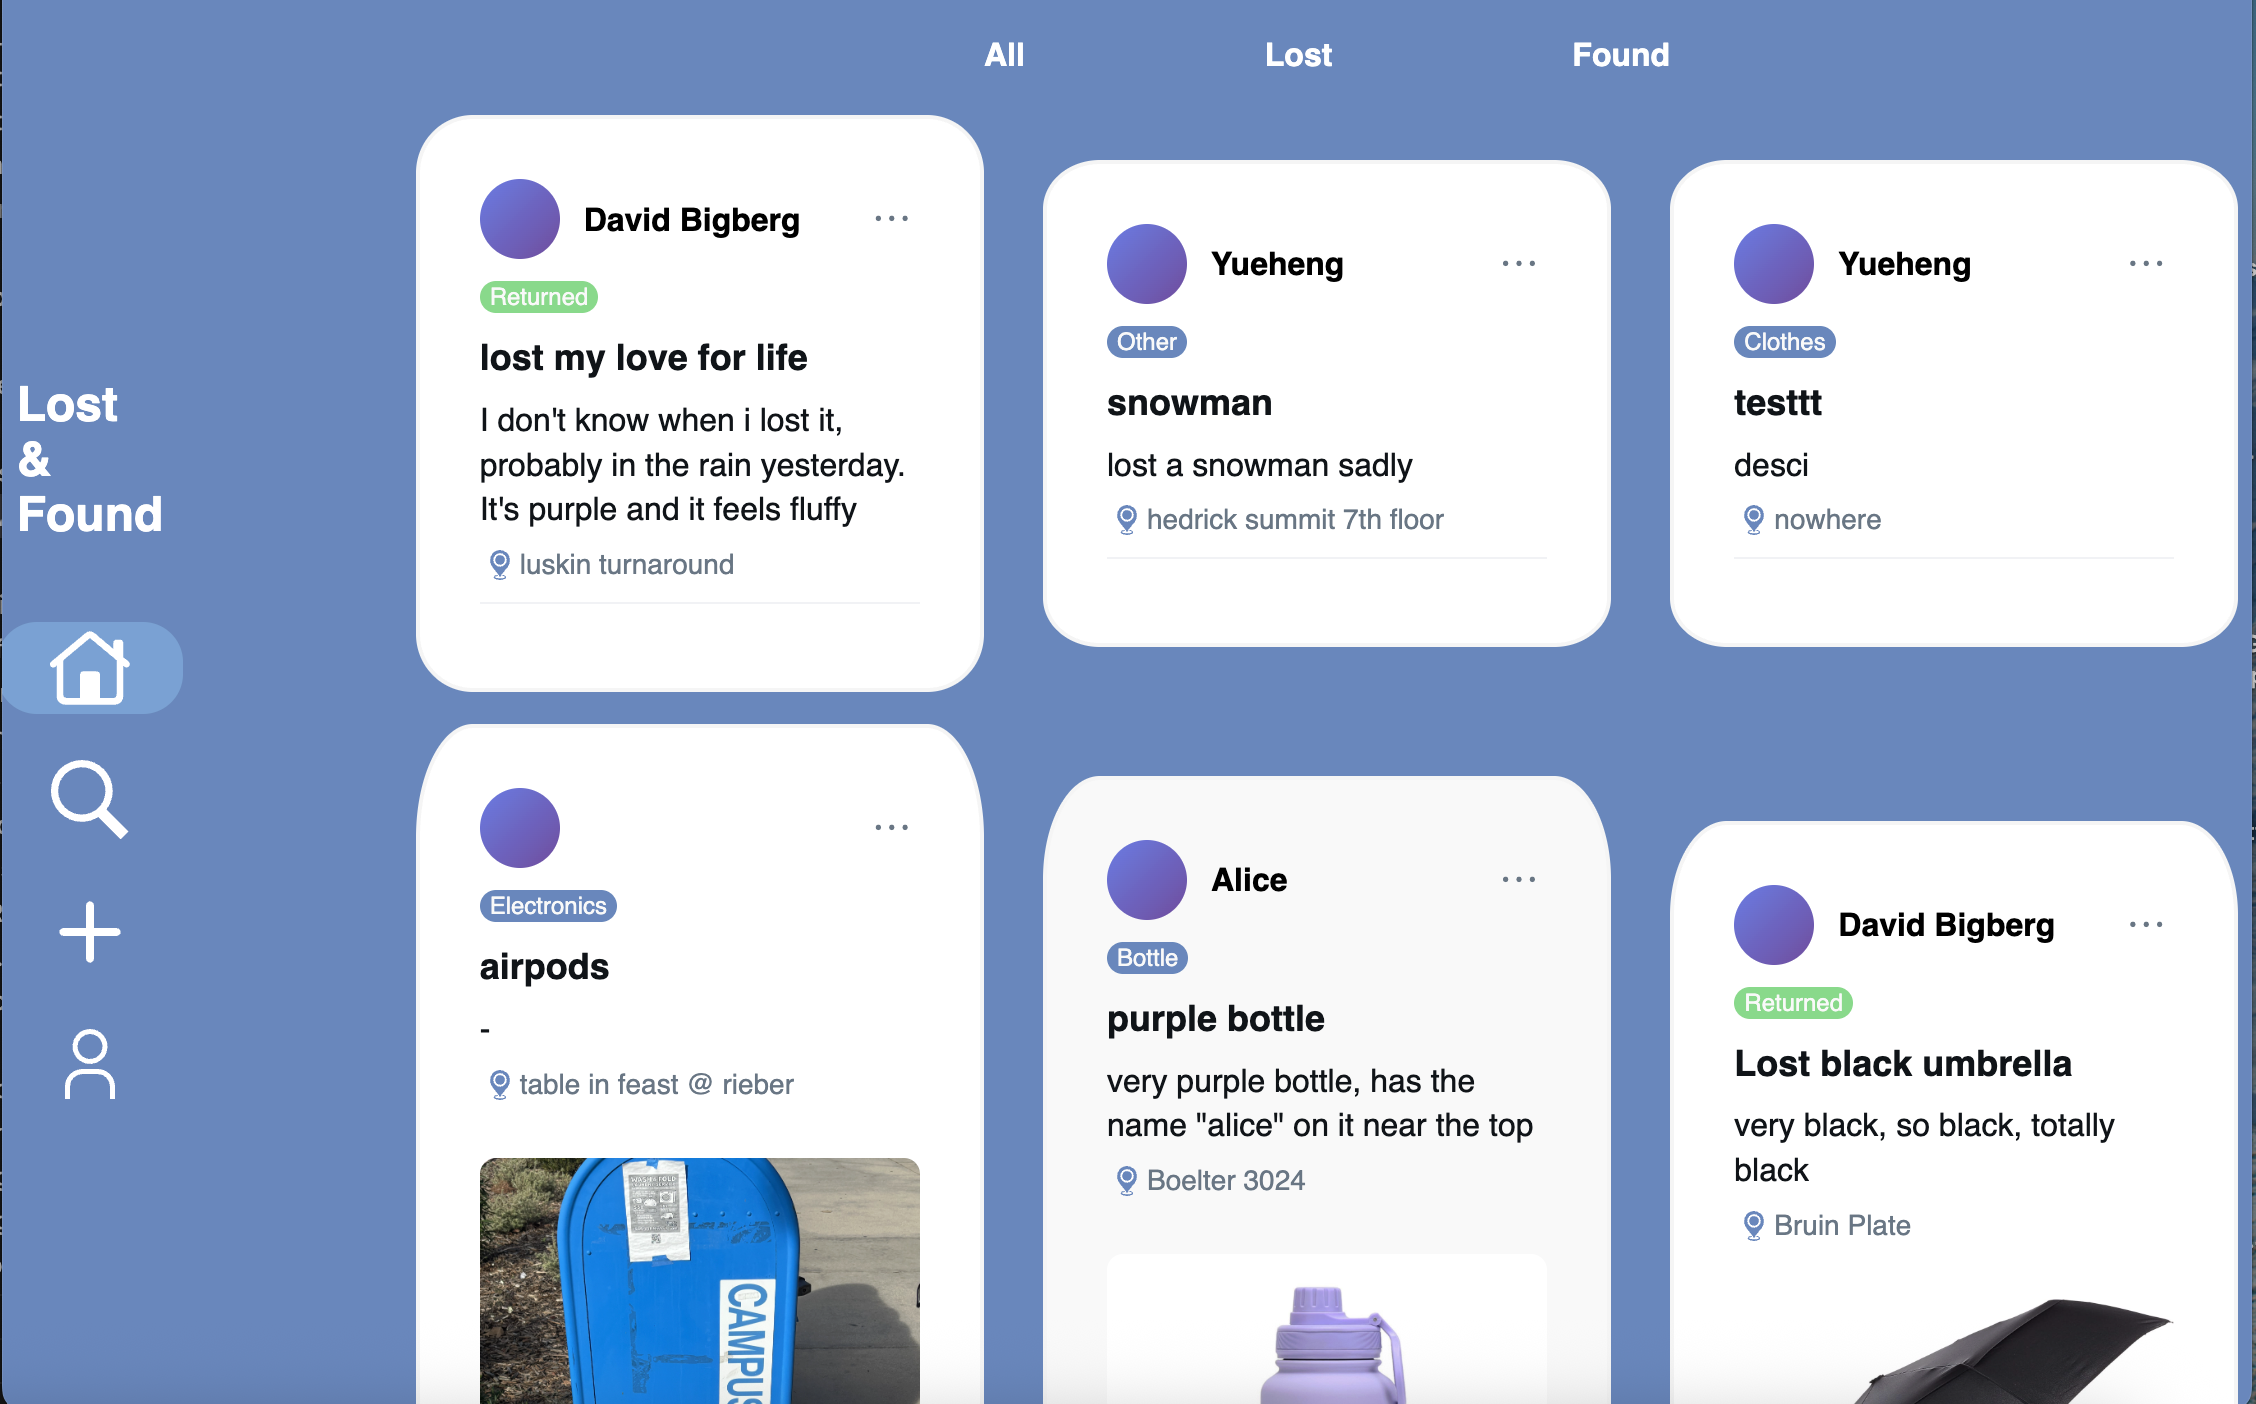
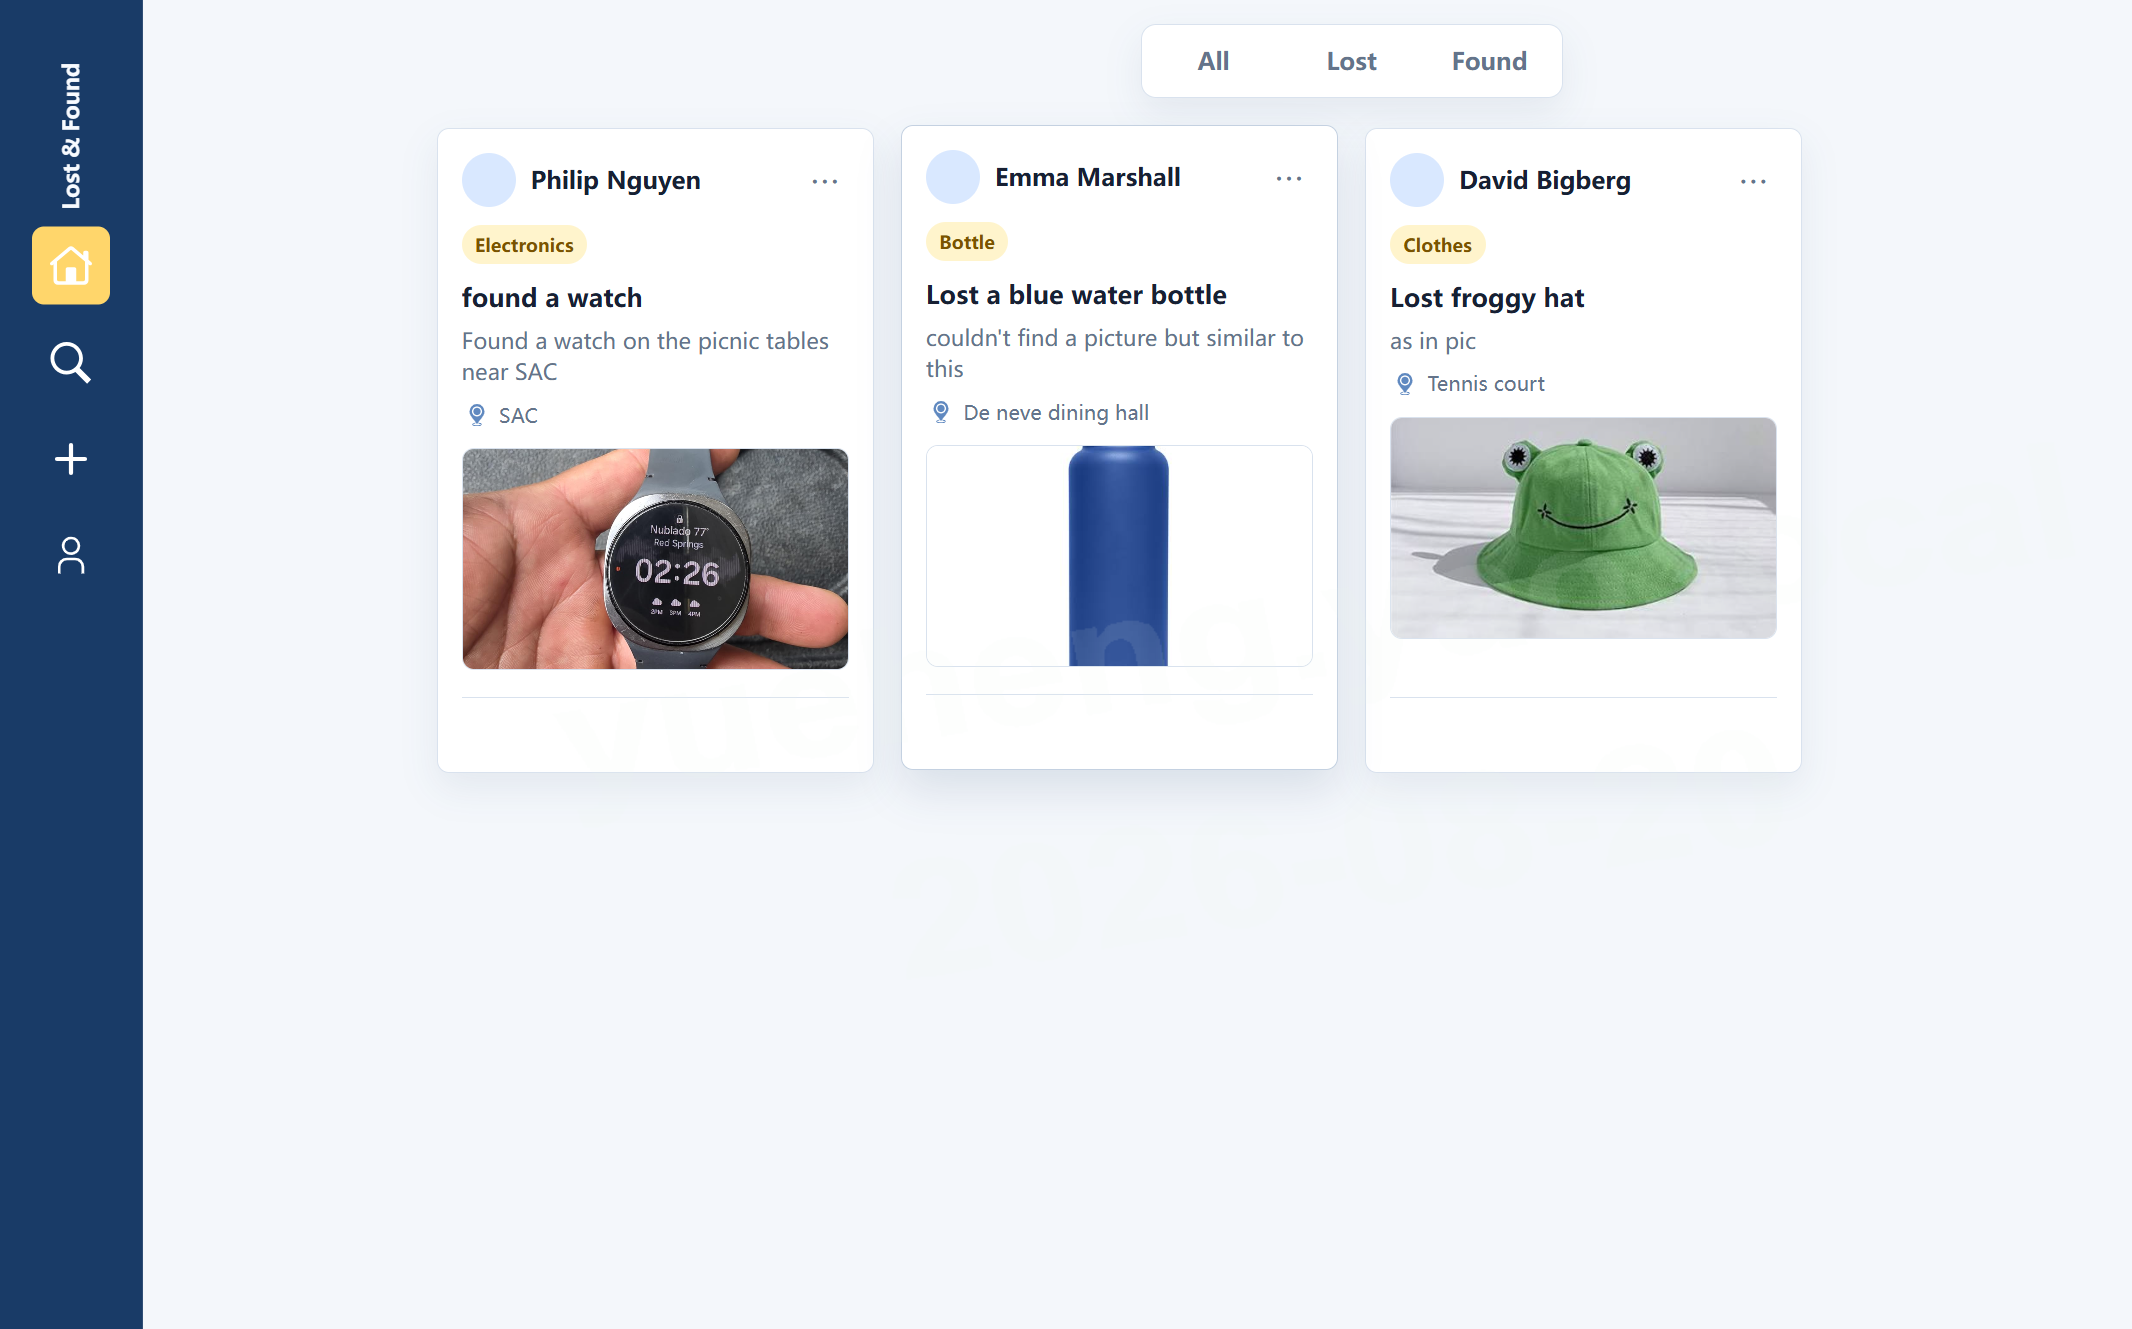
Updated lost&found and find-saint project thumbnails, demos and live links

diff --git a/portfolio.html b/portfolio.html
@@ -23,19 +23,24 @@
                 <div class="project-card-left">
                     <h3>Patron-saint finder</h3>
                     <p>An OpenAI API powered streamlit app that finds the perfect patron saint fit based on your personal preferences</p>
-                    <a href="https://github.com/b00m-spark/find-saint">github&rarr;</a>
-                    <a href="https://findyourpatronsaint.streamlit.app/">showcase&rarr;</a>
+                    <div class="project-links">
+                        <a href="https://github.com/b00m-spark/find-saint">github&rarr;</a>
+                        <a href="https://cap.so/s/vkmwrg2xhvz1twb">demo&rarr;</a>
+                        <a href="https://findyourpatronsaint.streamlit.app/">live site&rarr;</a>
+                    </div>
                 </div>
                 <div class="project-card-right">
-                    <img src="project-imgs/find-saint-imgs/thumbnail.png">
+                    <img src="project-imgs/find-saint-imgs/find-saint-thumbnail.PNG" />
                 </div>
             </div>
             <div class="project-card">
                 <div class="project-card-left">
                     <h3>Text depression level classifier</h3>
                     <p>A program that uses transformer-based NLP models to predict depression levels of mental health statements</p>
-                    <a href="https://github.com/b00m-spark/mental-health-text-classification">github&rarr;</a>
-                    <a href="projects/nlp.html">showcase&rarr;</a>
+                    <div class="project-links">
+                        <a href="https://github.com/b00m-spark/mental-health-text-classification">github&rarr;</a>
+                        <a href="projects/nlp.html">demo&rarr;</a>
+                    </div>
                 </div>
                 <div class="project-card-right">
                     <img src="project-imgs/nlp-imgs/nlp-thumbnail.png">
@@ -45,7 +50,9 @@
                 <div class="project-card-left">
                     <h3>Student depression prediction from lifestyle factors</h3>
                     <p>A deep learning project that explores predicting depression based on student's lifestyle data</p>
-                    <a href="https://github.com/b00m-spark/neural-network-depression">github&rarr;</a>
+                    <div class="project-links">
+                        <a href="https://github.com/b00m-spark/neural-network-depression">github&rarr;</a>
+                    </div>
                 </div>
                 <div class="project-card-right">
                     <img src="project-imgs/deeplearning-imgs/deep-learning-thumbnail.png">
@@ -58,7 +65,9 @@
                 <div class="project-card-left">
                     <h3>WonkyKong videogame</h3>
                     <p>A 2d platformer video game that features multiple actors, enemies and collectibles</p>
-                    <a href="https://github.com/b00m-spark/WonkyKong">github&rarr;</a>
+                    <div class="project-links">
+                        <a href="https://github.com/b00m-spark/WonkyKong">github&rarr;</a>
+                    </div>
                 </div>
                 <div class="project-card-right">
                     <img src="project-imgs/wonkykong/wonky-kong-thumbnail.png">
@@ -68,7 +77,9 @@
                 <div class="project-card-left">
                     <h3>Flight planner</h3>
                     <p>A flight designing program that reads in a flights data file and plans the best itinerary using Dijkstra's algorithm</p>
-                    <a href="https://github.com/b00m-spark/flight-planner">github&rarr;</a>
+                    <div class="project-links">
+                        <a href="https://github.com/b00m-spark/flight-planner">github&rarr;</a>
+                    </div>
                 </div>
                 <div class="project-card-right">
                     <img src="project-imgs/flight-planner/flight-planner-thumbnail.png" style="height: 160px; object-fit: cover; object-position: left center;">
@@ -81,18 +92,24 @@
                 <div class="project-card-left">
                     <h3>Lost and found web app</h3>
                     <p>A full-stack lost-and-found platform that allows students to report, browse, filter, and recover lost and found items</p>
-                    <a href="https://github.com/cyrussori/lost_and_found">github&rarr;</a>
+                    <div class="project-links">
+                        <a href="https://github.com/cyrussori/lost_and_found">github&rarr;</a>
+                        <a href="https://cap.so/s/t7aggct364q9av1">demo&rarr;</a>
+                        <a href="https://lost-and-found-iota-lilac.vercel.app">live site&rarr;</a>
+                    </div>
                 </div>
                 <div class="project-card-right">
-                    <img src="project-imgs/lost-and-found/lost_and_found_thumbnail.png">
+                    <img src="project-imgs/lost-and-found/lost_and_found_thumbnail.PNG">
                 </div>
             </div>
             <div class="project-card">
                 <div class="project-card-left">
                     <h3>Personal library</h3>
                     <p>A web app where you can store books you read onto the virtual bookshelf</p>
-                    <a href="https://github.com/b00m-spark/library">github&rarr;</a>
-                    <a href="https://b00m-spark.github.io/library">showcase&rarr;</a>
+                    <div class="project-links">
+                        <a href="https://github.com/b00m-spark/library">github&rarr;</a>
+                        <a href="https://b00m-spark.github.io/library">live site&rarr;</a>
+                    </div>
                 </div>
                 <div class="project-card-right">
                     <img src="project-imgs/library/library-thumbnail.png">
@@ -102,8 +119,10 @@
                 <div class="project-card-left">
                     <h3>To-do list</h3>
                     <p>A to-do-list that enables setting due date, changing priority levels, and grouping todos into categories</p>
-                    <a href="https://github.com/b00m-spark/flight-planner">github&rarr;</a>
-                    <a href="https://b00m-spark.github.io/todo-list">showcase&rarr;</a>
+                    <div class="project-links">
+                        <a href="https://github.com/b00m-spark/flight-planner">github&rarr;</a>
+                        <a href="https://b00m-spark.github.io/todo-list">live site&rarr;</a>
+                    </div>
                 </div>
                 <div class="project-card-right">
                     <img src="project-imgs/todolist/todolist-thumbnail.png">
@@ -113,8 +132,10 @@
                 <div class="project-card-left">
                     <h3>Dashboard design</h3>
                     <p>A dashboard design with css!</p>
-                    <a href="https://github.com/b00m-spark/admin-dashboard">github&rarr;</a>
-                    <a href="https://b00m-spark.github.io/admin-dashboard">showcase&rarr;</a>
+                    <div class="project-links">
+                        <a href="https://github.com/b00m-spark/admin-dashboard">github&rarr;</a>
+                        <a href="https://b00m-spark.github.io/admin-dashboard">live site&rarr;</a>
+                    </div>
                 </div>
                 <div class="project-card-right">
                     <img src="project-imgs/dashboard/dashboard-thumbnail.png" style="margin-top: 60px;">
@@ -124,8 +145,10 @@
                 <div class="project-card-left">
                     <h3>Calculator</h3>
                     <p>A simple calculator!</p>
-                    <a href="https://github.com/b00m-spark/calculator">github&rarr;</a>
-                    <a href="https://b00m-spark.github.io/calculator">showcase&rarr;</a>
+                    <div class="project-links">
+                        <a href="https://github.com/b00m-spark/calculator">github&rarr;</a>
+                        <a href="https://b00m-spark.github.io/calculator">live site&rarr;</a>
+                    </div>
                 </div>
                 <div class="project-card-right">
                     <img src="project-imgs/calculator/calculator-thumbnail.png">
@@ -135,8 +158,10 @@
                 <div class="project-card-left">
                     <h3>Tic-tac-toe</h3>
                     <p>Come play tic-tac-toe, you'll need a friend for this, or maybe play against yourself?</p>
-                    <a href="https://github.com/b00m-spark/tic-tac-toe">github&rarr;</a>
-                    <a href="https://b00m-spark.github.io/tic-tac-toe">showcase&rarr;</a>
+                    <div class="project-links">
+                        <a href="https://github.com/b00m-spark/tic-tac-toe">github&rarr;</a>
+                        <a href="https://b00m-spark.github.io/tic-tac-toe">live site&rarr;</a>
+                    </div>
                 </div>
                 <div class="project-card-right">
                     <img src="project-imgs/tictactoe/ttt-thumbnail.png">

diff --git a/index.html b/index.html
@@ -80,19 +80,19 @@
             <div class="featured-project-grid">
                 <a class="featured-project-card" href="https://findyourpatronsaint.streamlit.app/">
                     <div class="image-frame featured-project-image" aria-label="Patron-saint finder image">
-                        <img src="project-imgs/find-saint-imgs/thumbnail.png" alt="Patron-saint finder thumbnail" />
+                        <img src="project-imgs/find-saint-imgs/find-saint-thumbnail.PNG" alt="Patron-saint finder thumbnail" />
                     </div>
                     <h3>Patron-saint finder</h3>
                     <p>An OpenAI API powered streamlit app that finds the perfect patron saint fit based on your personal preferences</p>
                 </a>
-                <a class="featured-project-card" href="https://github.com/cyrussori/lost_and_found">
+                <a class="featured-project-card" href="https://lost-and-found-iota-lilac.vercel.app">
                     <div class="image-frame featured-project-image" aria-label="Lost and found app image">
-                        <img src="project-imgs/lost-and-found/lost_and_found_thumbnail.png" alt="Lost and found app thumbnail" />
+                        <img src="project-imgs/lost-and-found/lost_and_found_thumbnail.PNG" alt="Lost and found app thumbnail" />
                     </div>
                     <h3>Lost and found web app</h3>
                     <p>A full-stack lost-and-found platform that allows students to report, browse, filter, and recover lost and found items</p>
                 </a>
-                <a class="featured-project-card" href="#">
+                <a class="featured-project-card" href="https://github.com/b00m-spark/WonkyKong">
                     <div class="image-frame featured-project-image" aria-label="WonkyKong videogame image">
                         <img src="project-imgs/wonkykong/wonky-kong-thumbnail.png" alt="WonkyKong videogame thumbnail" />
                     </div>

diff --git a/style.css b/style.css
@@ -1400,11 +1400,23 @@ button,
 }
 
 .portfolio-space .project-card-left {
+    display: flex;
+    flex-direction: column;
     padding: 18px 16px;
+}
+
+.portfolio-space .project-links {
+    display: flex;
+    flex-wrap: wrap;
+    gap: 8px 14px;
+    margin-top: auto;
+    padding-top: 14px;
 }
 
 .portfolio-space .project-card-left a,
 .portfolio-space .project-card-left a:visited {
+    position: static;
+    display: inline-flex;
     color: var(--space-cyan);
     font-family: var(--display-font);
     font-size: 14px;
